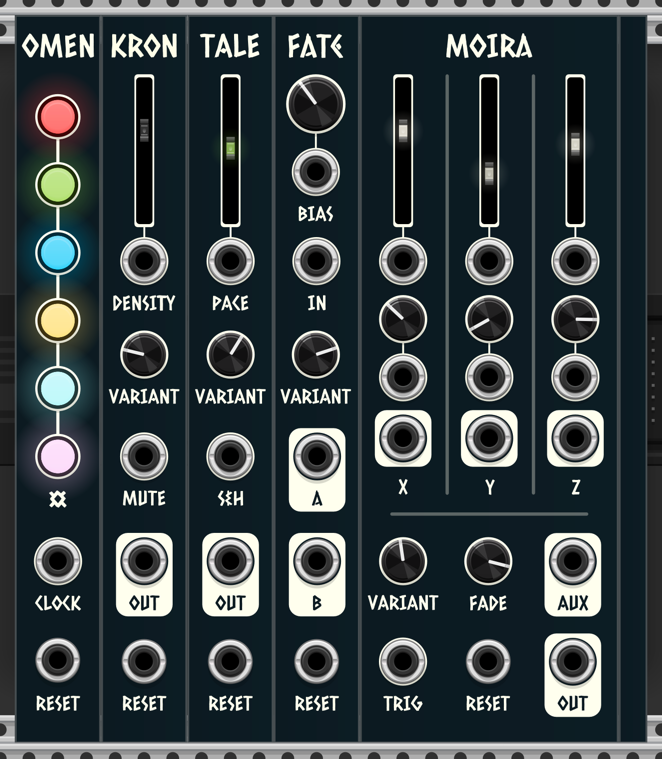
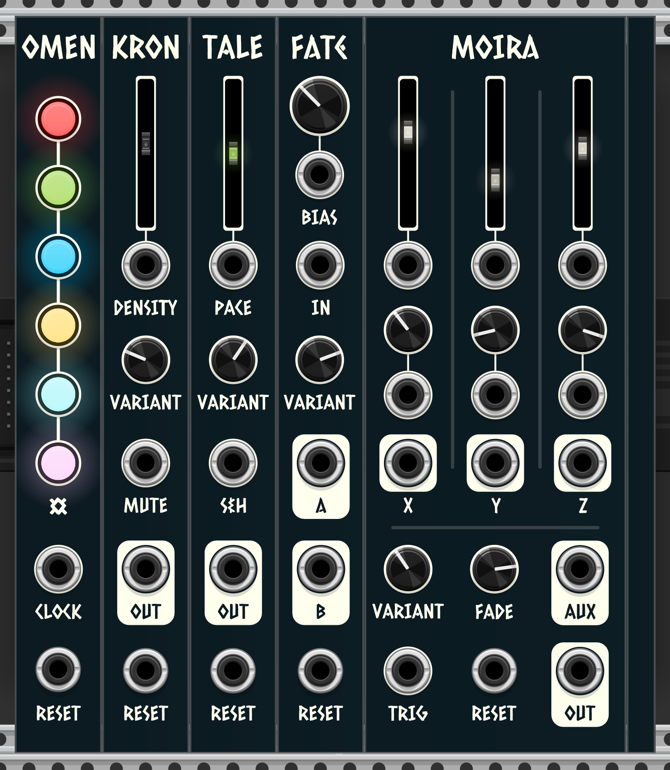
Moira panel redesign

diff --git a/src/Moira.cpp b/src/Moira.cpp
@@ -566,24 +566,24 @@ struct MoiraWidget final : ModuleWidget {
 		addParam(createLightParamCentered<VCVLightSlider<RedGreenBlueLight>>(mm2px(Vec(7.647, 24.0)), module, Moira::X_PROB_PARAM, Moira::X_PROB_LIGHT));
 		addParam(createLightParamCentered<VCVLightSlider<RedGreenBlueLight>>(mm2px(Vec(22.86, 24.0)), module, Moira::Y_PROB_PARAM, Moira::Y_PROB_LIGHT));
 		addParam(createLightParamCentered<VCVLightSlider<RedGreenBlueLight>>(mm2px(Vec(38.073, 24.0)), module, Moira::Z_PROB_PARAM, Moira::Z_PROB_LIGHT));
-		addParam(createParamCentered<RoundSmallBlackKnob>(mm2px(Vec(7.647, 53.75)), module, Moira::X_VALUE_PARAM));
-		addParam(createParamCentered<RoundSmallBlackKnob>(mm2px(Vec(22.86, 53.75)), module, Moira::Y_VALUE_PARAM));
-		addParam(createParamCentered<RoundSmallBlackKnob>(mm2px(Vec(38.073, 53.75)), module, Moira::Z_VALUE_PARAM));
+		addParam(createParamCentered<RoundSmallBlackKnob>(mm2px(Vec(7.647, 54.808)), module, Moira::X_VALUE_PARAM));
+		addParam(createParamCentered<RoundSmallBlackKnob>(mm2px(Vec(22.86, 54.808)), module, Moira::Y_VALUE_PARAM));
+		addParam(createParamCentered<RoundSmallBlackKnob>(mm2px(Vec(38.073, 54.808)), module, Moira::Z_VALUE_PARAM));
 		addParam(createParamCentered<RoundSmallBlackSnapKnob>(mm2px(Vec(7.647, 96.5)), module, Moira::VARIANT_PARAM));
 		addParam(createParamCentered<RoundSmallBlackKnob>(mm2px(Vec(22.695, 96.5)), module, Moira::FADE_PARAM));
 
 		addInput(createInputCentered<DarkPJ301MPort>(mm2px(Vec(7.647, 43.5)), module, Moira::X_PROB_INPUT));
 		addInput(createInputCentered<DarkPJ301MPort>(mm2px(Vec(22.86, 43.5)), module, Moira::Y_PROB_INPUT));
 		addInput(createInputCentered<DarkPJ301MPort>(mm2px(Vec(38.073, 43.5)), module, Moira::Z_PROB_INPUT));
-		addInput(createInputCentered<DarkPJ301MPort>(mm2px(Vec(7.647, 64.014)), module, Moira::X_VALUE_INPUT));
-		addInput(createInputCentered<DarkPJ301MPort>(mm2px(Vec(22.86, 64.021)), module, Moira::Y_VALUE_INPUT));
-		addInput(createInputCentered<DarkPJ301MPort>(mm2px(Vec(38.073, 64.021)), module, Moira::Z_VALUE_INPUT));
+		addInput(createInputCentered<DarkPJ301MPort>(mm2px(Vec(7.647, 66.137)), module, Moira::X_VALUE_INPUT));
+		addInput(createInputCentered<DarkPJ301MPort>(mm2px(Vec(22.86, 66.137)), module, Moira::Y_VALUE_INPUT));
+		addInput(createInputCentered<DarkPJ301MPort>(mm2px(Vec(38.073, 66.137)), module, Moira::Z_VALUE_INPUT));
 		addInput(createInputCentered<DarkPJ301MPort>(mm2px(Vec(7.62, 114.233)), module, Moira::TRIGGER_INPUT));
 		addInput(createInputCentered<DarkPJ301MPort>(mm2px(Vec(22.695, 114.233)), module, Moira::RESET_INPUT));
 
-		addOutput(createOutputCentered<DarkPJ301MPort>(mm2px(Vec(7.647, 74.791)), module, Moira::X_CHOSEN_OUTPUT));
-		addOutput(createOutputCentered<DarkPJ301MPort>(mm2px(Vec(22.86, 74.791)), module, Moira::Y_CHOSEN_OUTPUT));
-		addOutput(createOutputCentered<DarkPJ301MPort>(mm2px(Vec(38.073, 74.791)), module, Moira::Z_CHOSEN_OUTPUT));
+		addOutput(createOutputCentered<DarkPJ301MPort>(mm2px(Vec(7.647, 78.0)), module, Moira::X_CHOSEN_OUTPUT));
+		addOutput(createOutputCentered<DarkPJ301MPort>(mm2px(Vec(22.86, 78.0)), module, Moira::Y_CHOSEN_OUTPUT));
+		addOutput(createOutputCentered<DarkPJ301MPort>(mm2px(Vec(38.073, 78.0)), module, Moira::Z_CHOSEN_OUTPUT));
 		addOutput(createOutputCentered<DarkPJ301MPort>(mm2px(Vec(37.62, 96.5)), module, Moira::AUX_OUTPUT));
 		addOutput(createOutputCentered<DarkPJ301MPort>(mm2px(Vec(37.62, 114.233)), module, Moira::OUT_OUTPUT));
 	}
